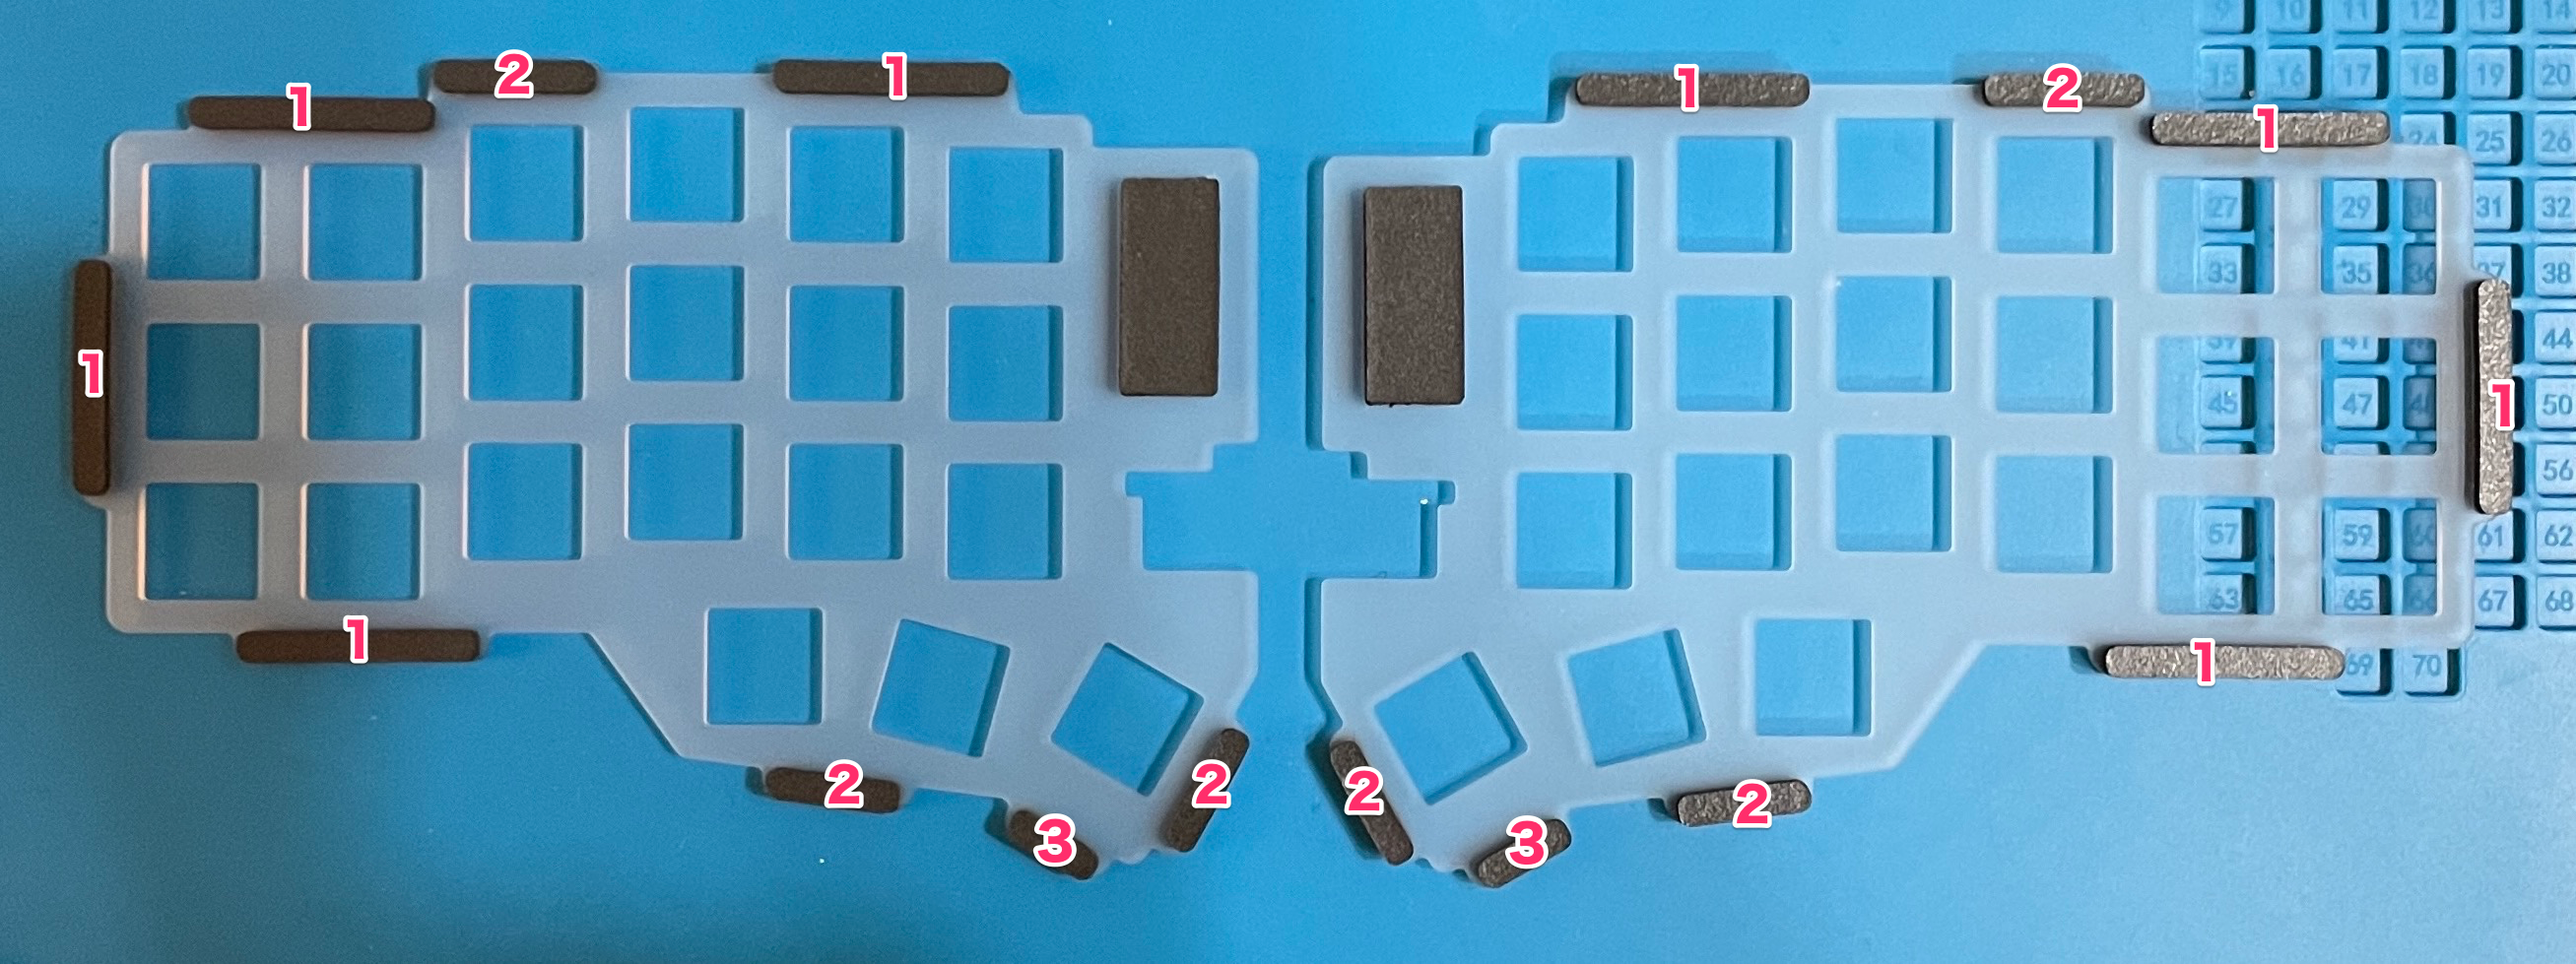
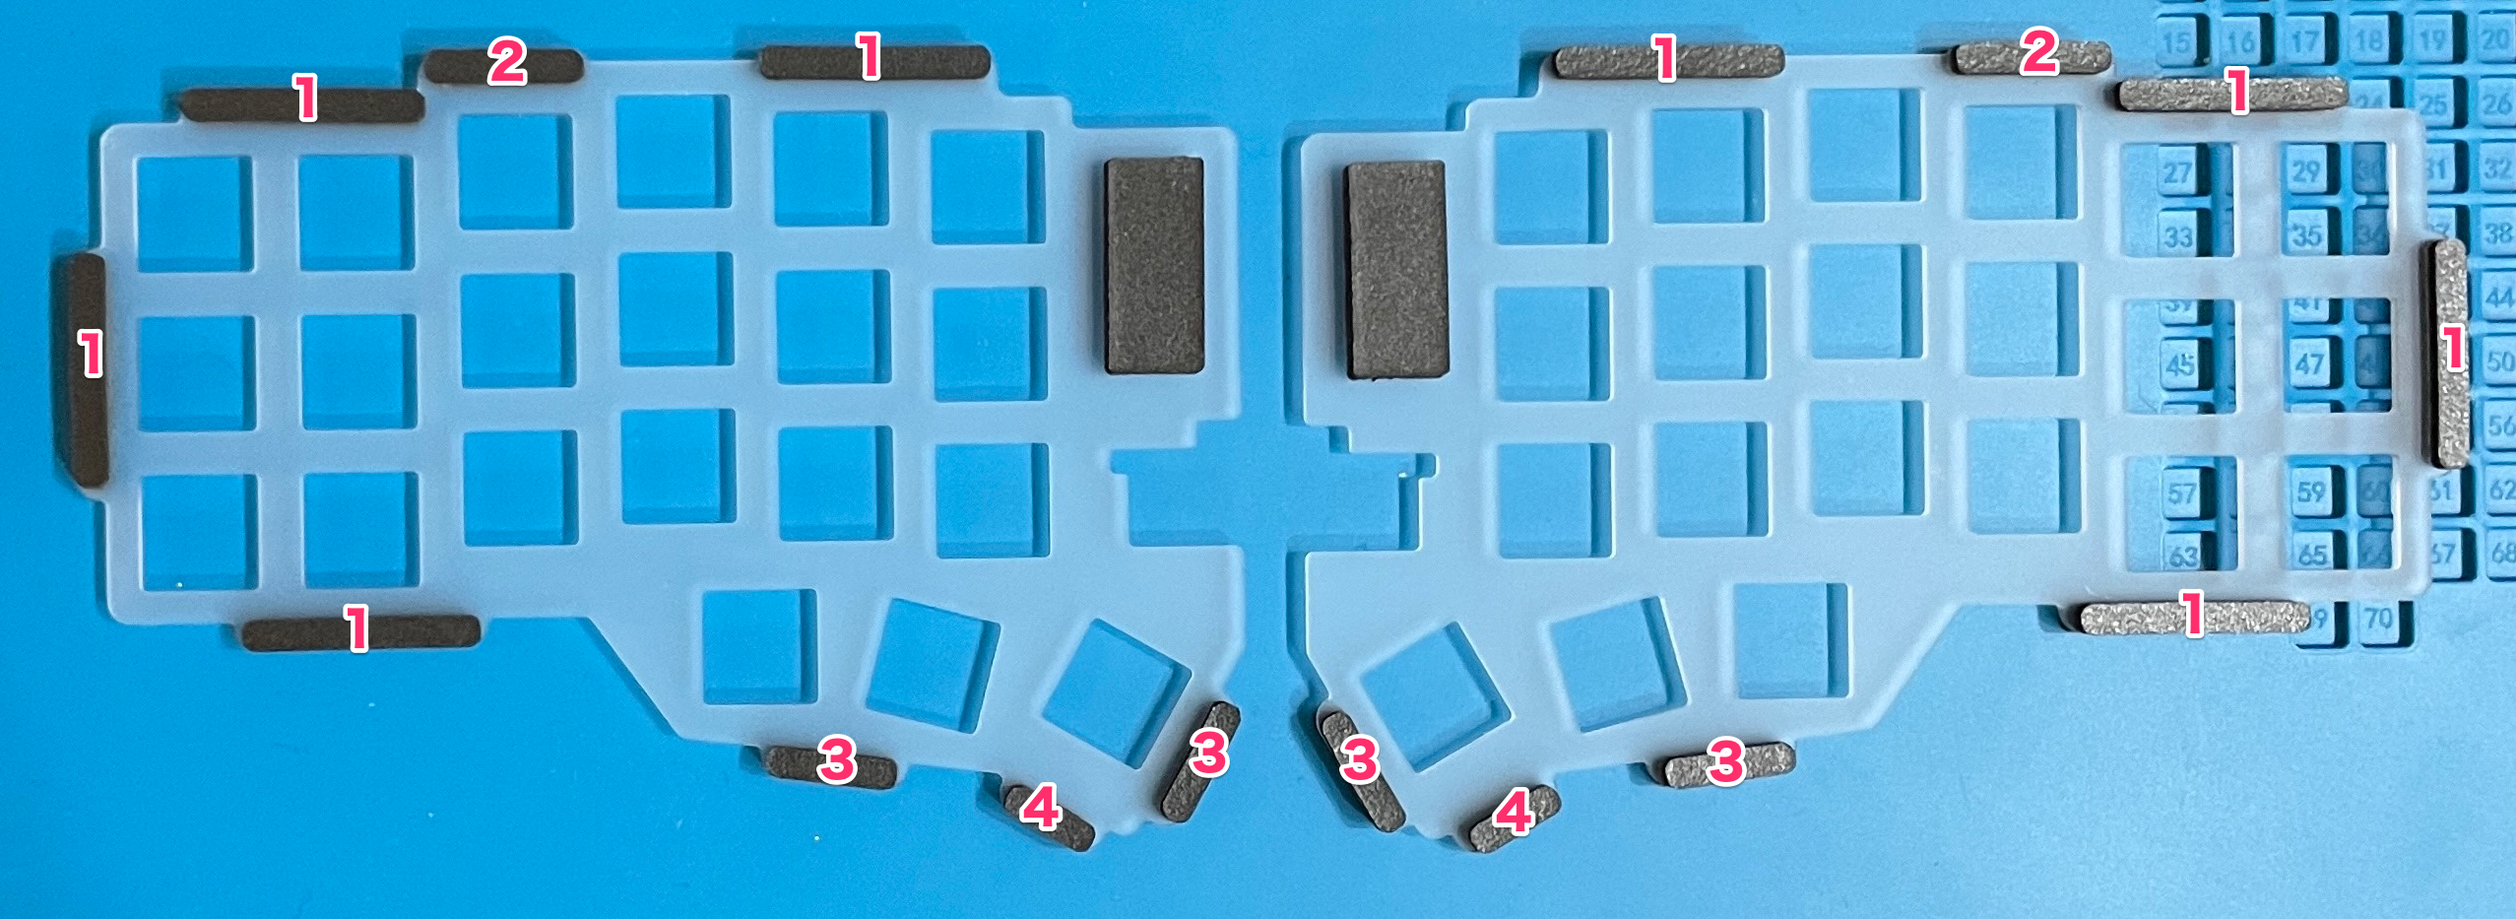
3 types lengths => 4 types lengths

diff --git a/docs/ja/corchim-cherry-v3.md b/docs/ja/corchim-cherry-v3.md
@@ -88,7 +88,7 @@ Space Gray は工場組立時のそのまま利用するので、ウェイトの
 
 ![ガスケットを貼った後のスイッチプレート](../img/switch-plate-after-gasket.jpg)
 
-ガスケットには長さが 3 種類あるのでサイズが合うように表面/裏面の両方に貼ります。
+ガスケットには長さが 4 種類あるのでサイズが合うように表面/裏面の両方に貼ります。
 
 ![スイッチフォーム側のガスケットのナンバリング](../img/switch-plate-gasket-numbering.png)
 

diff --git a/docs/en/corchim-cherry-v3.md b/docs/en/corchim-cherry-v3.md
@@ -87,7 +87,7 @@ At this time, also attach the OLED supporting foam to fit the OLED recess.
 
 ![Switch plate after attaching gasket](../img/switch-plate-after-gasket.jpg)
 
-The gasket comes in three lengths, so attach them to fit both sides (front and back).
+The gasket comes in four lengths, so attach them to fit both sides (front and back).
 
 ![Numbering of gaskets on the switch foam side](../img/switch-plate-gasket-numbering.png)
 
